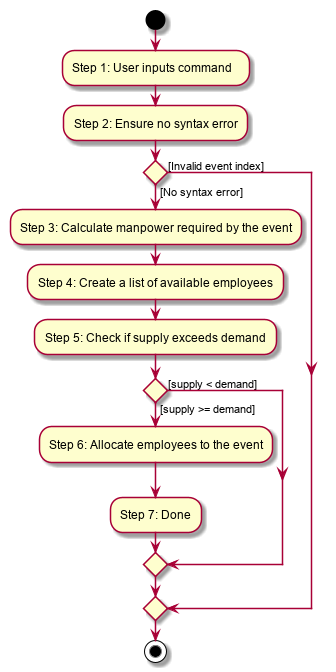
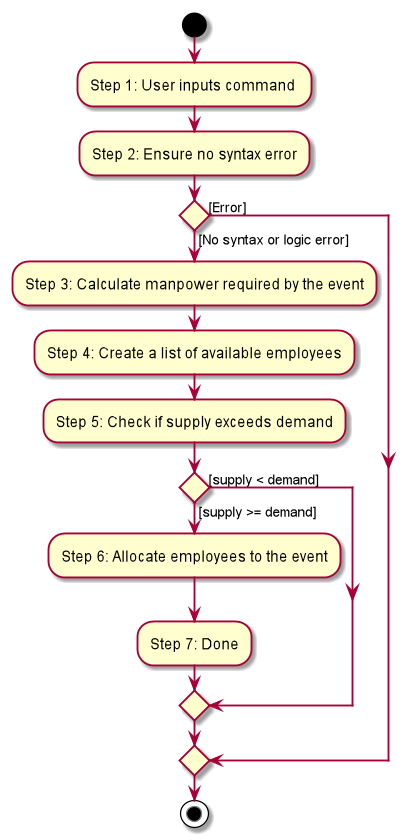
Rebuild pages at 59b0b7fc43f8b1cf307ddc1a98def47410526a26

Changed region(s): [[0.0, 0.0312, 0.9524, 1.0], [0.0595, 0.4062, 0.0893, 0.4375]]

diff --git a/UserGuide.html b/UserGuide.html
@@ -156,10 +156,10 @@ The GUI should appear in a few seconds.</p>
 <p><strong><code>list</code></strong> : lists all contacts</p>
 </li>
 <li>
-<p><strong><code>add</code></strong><code>add_em n/John Doe g/Male p/Manager no/98765432 e/johnd@example.com a/311, Clementi Ave 2, #02-25 on/12/12/2012 t/friends</code> : adds a contact named <code>John Doe</code> to the Employee List.</p>
+<p><strong><code>add_em</code></strong><code>add_em n/John Doe g/Male p/20 no/98765432 e/johnd@example.com a/311, Clementi Ave 2, #02-25 on/12/12/2012 t/friends</code> : adds a contact named <code>John Doe</code> to the Employee List.</p>
 </li>
 <li>
-<p><strong><code>delete</code></strong><code>3</code> : deletes the 3rd Employee shown in the current list</p>
+<p><strong><code>delete_em</code></strong><code>3</code> : deletes the 3rd Employee shown in the current list</p>
 </li>
 <li>
 <p><strong><code>exit</code></strong> : exits the app</p>
@@ -556,6 +556,9 @@ Both employee and events can have any number of tags (including 0)
 <li>
 <p>An employee&#8217;s identity is uniquely identified by his/her name, phone number and email. You cannot edit an employee whose identity is the same as another employee already inside the Employee List.</p>
 </li>
+<li>
+<p>Any switch of an Employee&#8217;s gender will result in duo gender tags being displayed if the tags were not cleared.</p>
+</li>
 </ul>
 </div>
 </div>
@@ -583,7 +586,8 @@ Both employee and events can have any number of tags (including 0)
 <p>This command will flush the current manpower allocated list and replace it with a new allocation list.</p>
 </li>
 <li>
-<p>The parameters provided will affect the functionality of the <code>edit_ev</code> Command. If the START_DATE and/or END_DATE is modified, it will flush all the Date-Time mapping of the Event (Refer to <a href="#set_ev_dt">Section 3.4.5, &#8220;Setting a Date&amp;Time to an Event: <code>set_ev_dt</code>&#8221;</a>) that is not within the new range of the event&#8217;s start-end dates and insert the default timing of 0800-1800 on the start/end dates, if they are not already mapped.</p>
+<p>The parameters provided will affect the functionality of the <code>edit_ev</code> Command. If the START_DATE and/or END_DATE is
+modified, it will flush all the Date-Time mapping of the Event (Refer to <a href="#set_ev_dt">Section 3.4.5, &#8220;Setting a Date&amp;Time to an Event: <code>set_ev_dt</code>&#8221;</a>) that is not within the new range of the event&#8217;s start-end dates and insert the default timing of 0800-1800 on the start/end dates, if they are not already mapped.</p>
 </li>
 </ul>
 </div>
@@ -724,6 +728,9 @@ Returns all events that are tagged as <code>free</code> and <code>music</code></
 </li>
 <li>
 <p>Note the <a href="#Constraints">[Constraints]</a> for <strong>INDEX</strong>.</p>
+</li>
+<li>
+<p>Deletion of an Employee will result in its de-allocation from all the Events.</p>
 </li>
 </ul>
 </div>
@@ -927,20 +934,24 @@ as shown in the <strong>Fetch Event Window</strong> in <a href="#fetch-full-deta
 <p>Manually chooses and allocates a single employee to an event.</p>
 </div>
 <div class="paragraph">
-<p>Format: <code>allocatem EVENT_INDEX n/EMPLOYEE_INDEX</code></p>
+<p>Format: <code>allocatem EVENT_INDEX n/EMPLOYEE_INDEX</code>
+Format: <code>allocatem EVENT_INDEX id/EMPLOYEE_ID</code></p>
 </div>
 <div class="sidebarblock">
 <div class="content">
 <div class="ulist">
 <ul>
 <li>
-<p>Allocates an employee with <code>EMPLOYEE_INDEX</code> to the event at the specified <code>EVENT_INDEX</code>.</p>
+<p>Allocates an employee with <code>EMPLOYEE_INDEX</code> or <code>EMPLOYEE_ID</code> to the event at the specified <code>EVENT_INDEX</code>.</p>
 </li>
 <li>
 <p>The <code>EVENT_INDEX</code> refers to the index number shown in the displayed event list.</p>
 </li>
 <li>
 <p>The <code>EMPLOYEE_INDEX</code> refers to the index number shown in the displayed employee list.</p>
+</li>
+<li>
+<p><code>EMPLOYEE_ID</code> must match the exact 3-digit ID shown in the <strong>FetchEventWindow</strong>.</p>
 </li>
 <li>
 <p>Note the <a href="#Constraints">[Constraints]</a> for <strong>INDEX</strong>.</p>
@@ -957,6 +968,10 @@ as shown in the <strong>Fetch Event Window</strong> in <a href="#fetch-full-deta
 <li>
 <p><code>allocatem 1 n/2</code><br>
 Allocates the 2nd employee on the employee list to the 1st event on the event list.</p>
+</li>
+<li>
+<p><code>allocatem 1 id/002</code><br>
+Allocates the employee with id:"002" to the 1st event on the event list.</p>
 </li>
 </ul>
 </div>
@@ -1006,7 +1021,7 @@ following figure.</p>
 <p>if <code>EMPLOYEE_ID</code> is not specified, all employees allocated to the event will be removed.</p>
 </li>
 <li>
-<p><code>EMPLOYEE_ID</code> must match the exact 3-digit ID shown in the displayed employee list.</p>
+<p><code>EMPLOYEE_ID</code> must match the exact 3-digit ID shown in the <strong>FetchEventWindow</strong>.</p>
 </li>
 </ul>
 </div>
@@ -1734,13 +1749,15 @@ such as the location, budget, and date.</p>
 </tr>
 <tr>
 <td class="tableblock halign-center valign-top"><p class="tableblock"><strong>Allocate a specified number of Employees with Filter requirements to an Event</strong></p></td>
-<td class="tableblock halign-center valign-top"><p class="tableblock"><code>allocate EVENT_INDEX [t/FILTER TAGS]&#8230;&#8203;</code></p></td>
+<td class="tableblock halign-center valign-top"><p class="tableblock"><code>allocate EVENT_INDEX [n/NUMBER][t/FILTER_TAGS]&#8230;&#8203;</code></p></td>
 <td class="tableblock halign-center valign-top"><p class="tableblock"><code>allocate 1 n/2 t/female</code></p></td>
 </tr>
 <tr>
 <td class="tableblock halign-center valign-top"><p class="tableblock"><strong>Allocate one specified Employee to an Event</strong></p></td>
-<td class="tableblock halign-center valign-top"><p class="tableblock"><code>allocate EVENT_INDEX [n/EMPLOYEE_INDEX]</code></p></td>
-<td class="tableblock halign-center valign-top"><p class="tableblock"><code>allocatem 1 n/2</code></p></td>
+<td class="tableblock halign-center valign-top"><p class="tableblock"><code>allocatem EVENT_INDEX n/EMPLOYEE_INDEX</code></p>
+<p class="tableblock"><code>allocatem EVENT_INDEX id/EMPLOYEE_ID</code></p></td>
+<td class="tableblock halign-center valign-top"><p class="tableblock"><code>allocatem 1 n/2</code></p>
+<p class="tableblock"><code>allocatem 1 id/002</code></p></td>
 </tr>
 <tr>
 <td class="tableblock halign-center valign-top"><p class="tableblock"><strong>De-allocate one/all Employees from an Event</strong></p></td>
@@ -1821,4 +1838,4 @@ such as the location, budget, and date.</p>
 </tbody>
 </table>
 </div>
-</div></div><div id="footer"><div class="container"><div id="footer-text">Last updated 2019-11-08 12:53:13 UTC</div></div></div></body></html>
+</div></div><div id="footer"><div class="container"><div id="footer-text">Last updated 2019-11-08 13:46:58 UTC</div></div></div></body></html>

diff --git a/team/calvincxz.html b/team/calvincxz.html
@@ -15,8 +15,8 @@ addressbook application for our Software Engineering project. We chose to morph 
 desktop application called AddMin+.</p>
 </div>
 <div class="paragraph">
-<p>AddMin+ is specially designed to ease the workload of the admin staffs in these companies and allow him/her to
-effectively handle the administrative tasks of the company.</p>
+<p>AddMin+ is specially designed to ease the workload of the admin staffs in event management companies by allowing them to
+effectively handle administrative tasks.</p>
 </div>
 <div class="paragraph">
 <p>This is what our project looks like:</p>
@@ -29,8 +29,13 @@ effectively handle the administrative tasks of the company.</p>
 </div>
 <div class="paragraph">
 <p>My role was to design and write the code for the association of employees with event, which includes
-event display and the allocation of employee to event. The following sections
-illustrate these features in more detail, as well as the relevant documentation
+everything from front-end display where users can see such an association to the back-end
+storage. One interesting point of this feature was the
+development of an algorithm which internally checks schedule of individual employees and prevents
+schedule clashes.</p>
+</div>
+<div class="paragraph">
+<p>The following sections illustrate these features in more detail, as well as the relevant documentation
 I have added to the user and developer guides in relation to these features.</p>
 </div>
 <div style="page-break-after: always;"></div>
@@ -43,7 +48,7 @@ I have added to the user and developer guides in relation to these features.</p>
 <ul>
 <li>
 <p><strong>Major feature</strong>: enabled the association of employees with events which includes
-<strong>automated/manual allocation of employees to event commands</strong> and a <strong>deallocate command</strong>, as well as the
+<strong>automated/manual allocation of employees to event commands</strong> and a <strong>de-allocate command</strong>, as well as the
 viewing of changes the users made via the <strong>fetch event</strong> command. All related commands have <strong>GUI features</strong> implemented.</p>
 <div class="ulist">
 <ul>
@@ -54,7 +59,9 @@ conflicting time periods.</p>
 </li>
 <li>
 <p>Justification: This feature improves the product significantly because a user can now allocate employees
-to events, which is a key component for events management companies that our app is targeting.
+to events, which is a key component for event management companies that our app is targeting.
+The algorithm used to check for conflicting schedule is also highly beneficial for users as we
+all know how tedious such tasks can be.
 The GUI features further provide convenience for users.</p>
 </li>
 <li>
@@ -299,20 +306,24 @@ as shown in the <strong>Fetch Event Window</strong> in <a href="#fetch-full-deta
 <p>Manually chooses and allocates a single employee to an event.</p>
 </div>
 <div class="paragraph">
-<p>Format: <code>allocatem EVENT_INDEX n/EMPLOYEE_INDEX</code></p>
+<p>Format: <code>allocatem EVENT_INDEX n/EMPLOYEE_INDEX</code>
+Format: <code>allocatem EVENT_INDEX id/EMPLOYEE_ID</code></p>
 </div>
 <div class="sidebarblock">
 <div class="content">
 <div class="ulist">
 <ul>
 <li>
-<p>Allocates an employee with <code>EMPLOYEE_INDEX</code> to the event at the specified <code>EVENT_INDEX</code>.</p>
+<p>Allocates an employee with <code>EMPLOYEE_INDEX</code> or <code>EMPLOYEE_ID</code> to the event at the specified <code>EVENT_INDEX</code>.</p>
 </li>
 <li>
 <p>The <code>EVENT_INDEX</code> refers to the index number shown in the displayed event list.</p>
 </li>
 <li>
 <p>The <code>EMPLOYEE_INDEX</code> refers to the index number shown in the displayed employee list.</p>
+</li>
+<li>
+<p><code>EMPLOYEE_ID</code> must match the exact 3-digit ID shown in the <strong>FetchEventWindow</strong>.</p>
 </li>
 <li>
 <p>Note the <a href="#Constraints">[Constraints]</a> for <strong>INDEX</strong>.</p>
@@ -329,6 +340,10 @@ as shown in the <strong>Fetch Event Window</strong> in <a href="#fetch-full-deta
 <li>
 <p><code>allocatem 1 n/2</code><br>
 Allocates the 2nd employee on the employee list to the 1st event on the event list.</p>
+</li>
+<li>
+<p><code>allocatem 1 id/002</code><br>
+Allocates the employee with id:"002" to the 1st event on the event list.</p>
 </li>
 </ul>
 </div>
@@ -378,7 +393,7 @@ following figure.</p>
 <p>if <code>EMPLOYEE_ID</code> is not specified, all employees allocated to the event will be removed.</p>
 </li>
 <li>
-<p><code>EMPLOYEE_ID</code> must match the exact 3-digit ID shown in the displayed employee list.</p>
+<p><code>EMPLOYEE_ID</code> must match the exact 3-digit ID shown in the <strong>FetchEventWindow</strong>.</p>
 </li>
 </ul>
 </div>
@@ -507,7 +522,9 @@ by the event.</p>
 to the 1st event displayed in the event list.</p>
 </div>
 <div class="paragraph">
-<p><strong>Step 2</strong>. The command checks if <code>eventIndex</code> is valid and if <code>ManpowerCountToAdd</code> is specified.</p>
+<p><strong>Step 2</strong>. The command checks if <code>eventIndex</code> is valid and if <code>ManpowerCountToAdd</code> is specified.
+The command also checks if the event still requires manpower, and if manpower count stated by user
+exceeds that needed by the event.</p>
 </div>
 <div class="admonitionblock note">
 <table>
@@ -517,8 +534,6 @@ to the 1st event displayed in the event list.</p>
 </td>
 <td class="content">
 If <code>ManpowerCountToAdd</code> is not specified, it is assumed to be the maximum number possible for the event.
-Validity of other command arguments e.g. if <code>ManpowerCountToAdd</code> is a positive integer is checked
-by <code>AutoAllocateCommandParser</code> and not within the command <code>AutoAllocateCommand</code>.
 </td>
 </tr>
 </table>
@@ -648,4 +663,4 @@ process.</p>
 </div>
 <hr>
 </div>
-</div></div><div id="footer"><div class="container"><div id="footer-text">Last updated 2019-11-08 12:53:13 UTC</div></div></div></body></html>
+</div></div><div id="footer"><div class="container"><div id="footer-text">Last updated 2019-11-08 13:46:59 UTC</div></div></div></body></html>

diff --git a/team/divinedx.html b/team/divinedx.html
@@ -289,6 +289,9 @@ Both employee and events can have any number of tags (including 0)
 <li>
 <p>An employee&#8217;s identity is uniquely identified by his/her name, phone number and email. You cannot edit an employee whose identity is the same as another employee already inside the Employee List.</p>
 </li>
+<li>
+<p>Any switch of an Employee&#8217;s gender will result in duo gender tags being displayed if the tags were not cleared.</p>
+</li>
 </ul>
 </div>
 </div>
@@ -316,7 +319,8 @@ Both employee and events can have any number of tags (including 0)
 <p>This command will flush the current manpower allocated list and replace it with a new allocation list.</p>
 </li>
 <li>
-<p>The parameters provided will affect the functionality of the <code>edit_ev</code> Command. If the START_DATE and/or END_DATE is modified, it will flush all the Date-Time mapping of the Event (Refer to <a href="#set_ev_dt">Setting a Date&amp;Time to an Event: <code>set_ev_dt</code></a>) that is not within the new range of the event&#8217;s start-end dates and insert the default timing of 0800-1800 on the start/end dates, if they are not already mapped.</p>
+<p>The parameters provided will affect the functionality of the <code>edit_ev</code> Command. If the START_DATE and/or END_DATE is
+modified, it will flush all the Date-Time mapping of the Event (Refer to <a href="#set_ev_dt">Setting a Date&amp;Time to an Event: <code>set_ev_dt</code></a>) that is not within the new range of the event&#8217;s start-end dates and insert the default timing of 0800-1800 on the start/end dates, if they are not already mapped.</p>
 </li>
 </ul>
 </div>
@@ -457,6 +461,9 @@ Returns all events that are tagged as <code>free</code> and <code>music</code></
 </li>
 <li>
 <p>Note the <a href="#Constraints">[Constraints]</a> for <strong>INDEX</strong>.</p>
+</li>
+<li>
+<p>Deletion of an Employee will result in its de-allocation from all the Events.</p>
 </li>
 </ul>
 </div>
@@ -783,4 +790,4 @@ Instantiation of the <code>Event</code> object when the app is started will be m
 <p><em>{Optionally, you may include other projects in your portfolio.}</em></p>
 </div>
 </div>
-</div></div><div id="footer"><div class="container"><div id="footer-text">Last updated 2019-11-08 12:53:13 UTC</div></div></div></body></html>
+</div></div><div id="footer"><div class="container"><div id="footer-text">Last updated 2019-11-08 13:46:59 UTC</div></div></div></body></html>

diff --git a/DeveloperGuide.html b/DeveloperGuide.html
@@ -507,7 +507,9 @@ by the event.</p>
 to the 1st event displayed in the event list.</p>
 </div>
 <div class="paragraph">
-<p><strong>Step 2</strong>. The command checks if <code>eventIndex</code> is valid and if <code>ManpowerCountToAdd</code> is specified.</p>
+<p><strong>Step 2</strong>. The command checks if <code>eventIndex</code> is valid and if <code>ManpowerCountToAdd</code> is specified.
+The command also checks if the event still requires manpower, and if manpower count stated by user
+exceeds that needed by the event.</p>
 </div>
 <div class="admonitionblock note">
 <table>
@@ -517,8 +519,6 @@ to the 1st event displayed in the event list.</p>
 </td>
 <td class="content">
 If <code>ManpowerCountToAdd</code> is not specified, it is assumed to be the maximum number possible for the event.
-Validity of other command arguments e.g. if <code>ManpowerCountToAdd</code> is a positive integer is checked
-by <code>AutoAllocateCommandParser</code> and not within the command <code>AutoAllocateCommand</code>.
 </td>
 </tr>
 </table>
@@ -1579,4 +1579,4 @@ employeebook.json and eventbook.json files.</p>
 </div>
 </div>
 </div>
-</div></div><div id="footer"><div class="container"><div id="footer-text">Last updated 2019-11-08 12:53:13 UTC</div></div></div></body></html>
+</div></div><div id="footer"><div class="container"><div id="footer-text">Last updated 2019-11-08 13:46:58 UTC</div></div></div></body></html>

diff --git a/tutorials/RemovingFields.html b/tutorials/RemovingFields.html
@@ -175,4 +175,4 @@ While keeping the <code>employeeAddress</code> field in the json files does not 
 <p>You can go through each individual <code>json</code> file and manually remove the <code>employeeAddress</code> field.</p>
 </div>
 </div>
-</div></div><div id="footer"><div class="container"><div id="footer-text">Last updated 2019-11-08 12:53:13 UTC</div></div></div></body></html>
+</div></div><div id="footer"><div class="container"><div id="footer-text">Last updated 2019-11-08 13:46:59 UTC</div></div></div></body></html>

diff --git a/Testing.html b/Testing.html
@@ -90,4 +90,4 @@ e.g. <code>seedu.address.logic.LogicManagerTest</code></p>
 <div class="title">Figure 1. <code>Accessibility</code> permission is granted to <code>IntelliJ IDEA</code></div>
 </div>
 </div>
-</div></div><div id="footer"><div class="container"><div id="footer-text">Last updated 2019-11-08 12:53:13 UTC</div></div></div></body></html>
+</div></div><div id="footer"><div class="container"><div id="footer-text">Last updated 2019-11-08 13:46:58 UTC</div></div></div></body></html>

diff --git a/ContactUs.html b/ContactUs.html
@@ -12,4 +12,4 @@
 <p><strong>Email us</strong> : You can also reach us at <code>adminplus [at] gmail.com</code> or  <code>e0309595@u.nus.edu</code></p>
 </li>
 </ul>
-</div></div><div id="footer"><div class="container"><div id="footer-text">Last updated 2019-11-08 12:53:13 UTC</div></div></div></body></html>
+</div></div><div id="footer"><div class="container"><div id="footer-text">Last updated 2019-11-08 13:46:58 UTC</div></div></div></body></html>

diff --git a/team/shihaoyap.html b/team/shihaoyap.html
@@ -672,4 +672,4 @@ Alternative 2 also helps prevent user confusion, as the list that is displayed i
 <div class="sectionbody">
 <hr>
 </div>
-</div></div><div id="footer"><div class="container"><div id="footer-text">Last updated 2019-11-08 12:53:13 UTC</div></div></div></body></html>
+</div></div><div id="footer"><div class="container"><div id="footer-text">Last updated 2019-11-08 13:46:59 UTC</div></div></div></body></html>

diff --git a/LearningOutcomes.html b/LearningOutcomes.html
@@ -474,4 +474,4 @@ of storages, but different number of storages (e.g. save to both a text file and
 </div>
 </div>
 </div>
-</div></div><div id="footer"><div class="container"><div id="footer-text">Last updated 2019-11-08 12:53:13 UTC</div></div></div></body></html>
+</div></div><div id="footer"><div class="container"><div id="footer-text">Last updated 2019-11-08 13:46:58 UTC</div></div></div></body></html>

diff --git a/SettingUp.html b/SettingUp.html
@@ -180,4 +180,4 @@ Having both Travis and AppVeyor ensures your App works on both Unix-based platfo
 </div>
 </div>
 </div>
-</div></div><div id="footer"><div class="container"><div id="footer-text">Last updated 2019-11-08 12:53:13 UTC</div></div></div></body></html>
+</div></div><div id="footer"><div class="container"><div id="footer-text">Last updated 2019-11-08 13:46:58 UTC</div></div></div></body></html>

diff --git a/UsingCoveralls.html b/UsingCoveralls.html
@@ -111,4 +111,4 @@ If you have not set up Travis CI, see <a href="UsingTravis.html">UsingTravis.ado
 </ol>
 </div>
 </div>
-</div></div><div id="footer"><div class="container"><div id="footer-text">Last updated 2019-11-08 12:53:13 UTC</div></div></div></body></html>
+</div></div><div id="footer"><div class="container"><div id="footer-text">Last updated 2019-11-08 13:46:58 UTC</div></div></div></body></html>

diff --git a/UsingGradle.html b/UsingGradle.html
@@ -228,4 +228,4 @@ See <code>build.gradle</code> &#8594; <code>allprojects</code> &#8594; <code>dep
 </ul>
 </div>
 </div>
-</div></div><div id="footer"><div class="container"><div id="footer-text">Last updated 2019-11-08 12:53:13 UTC</div></div></div></body></html>
+</div></div><div id="footer"><div class="container"><div id="footer-text">Last updated 2019-11-08 13:46:58 UTC</div></div></div></body></html>
